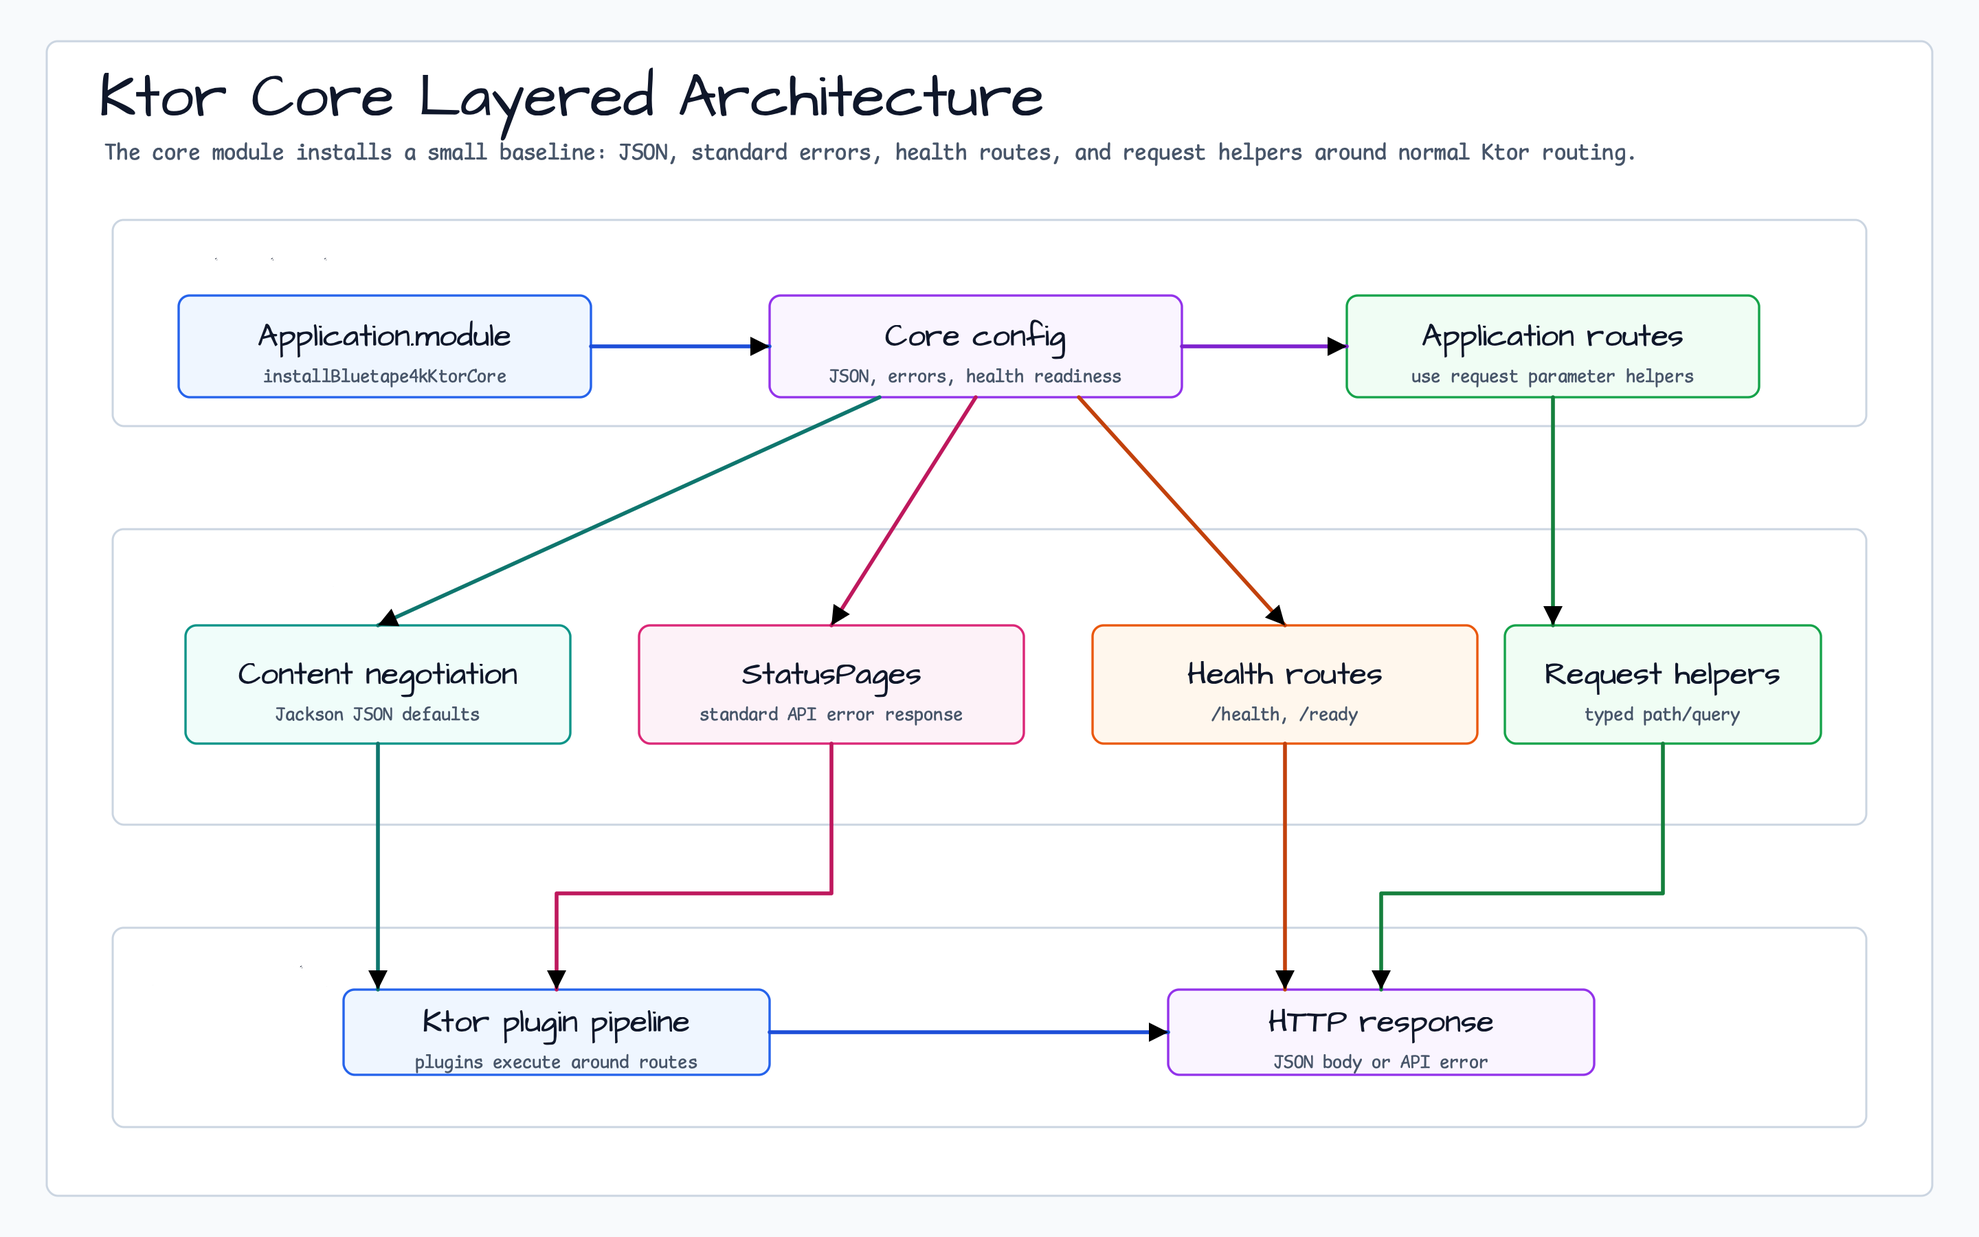
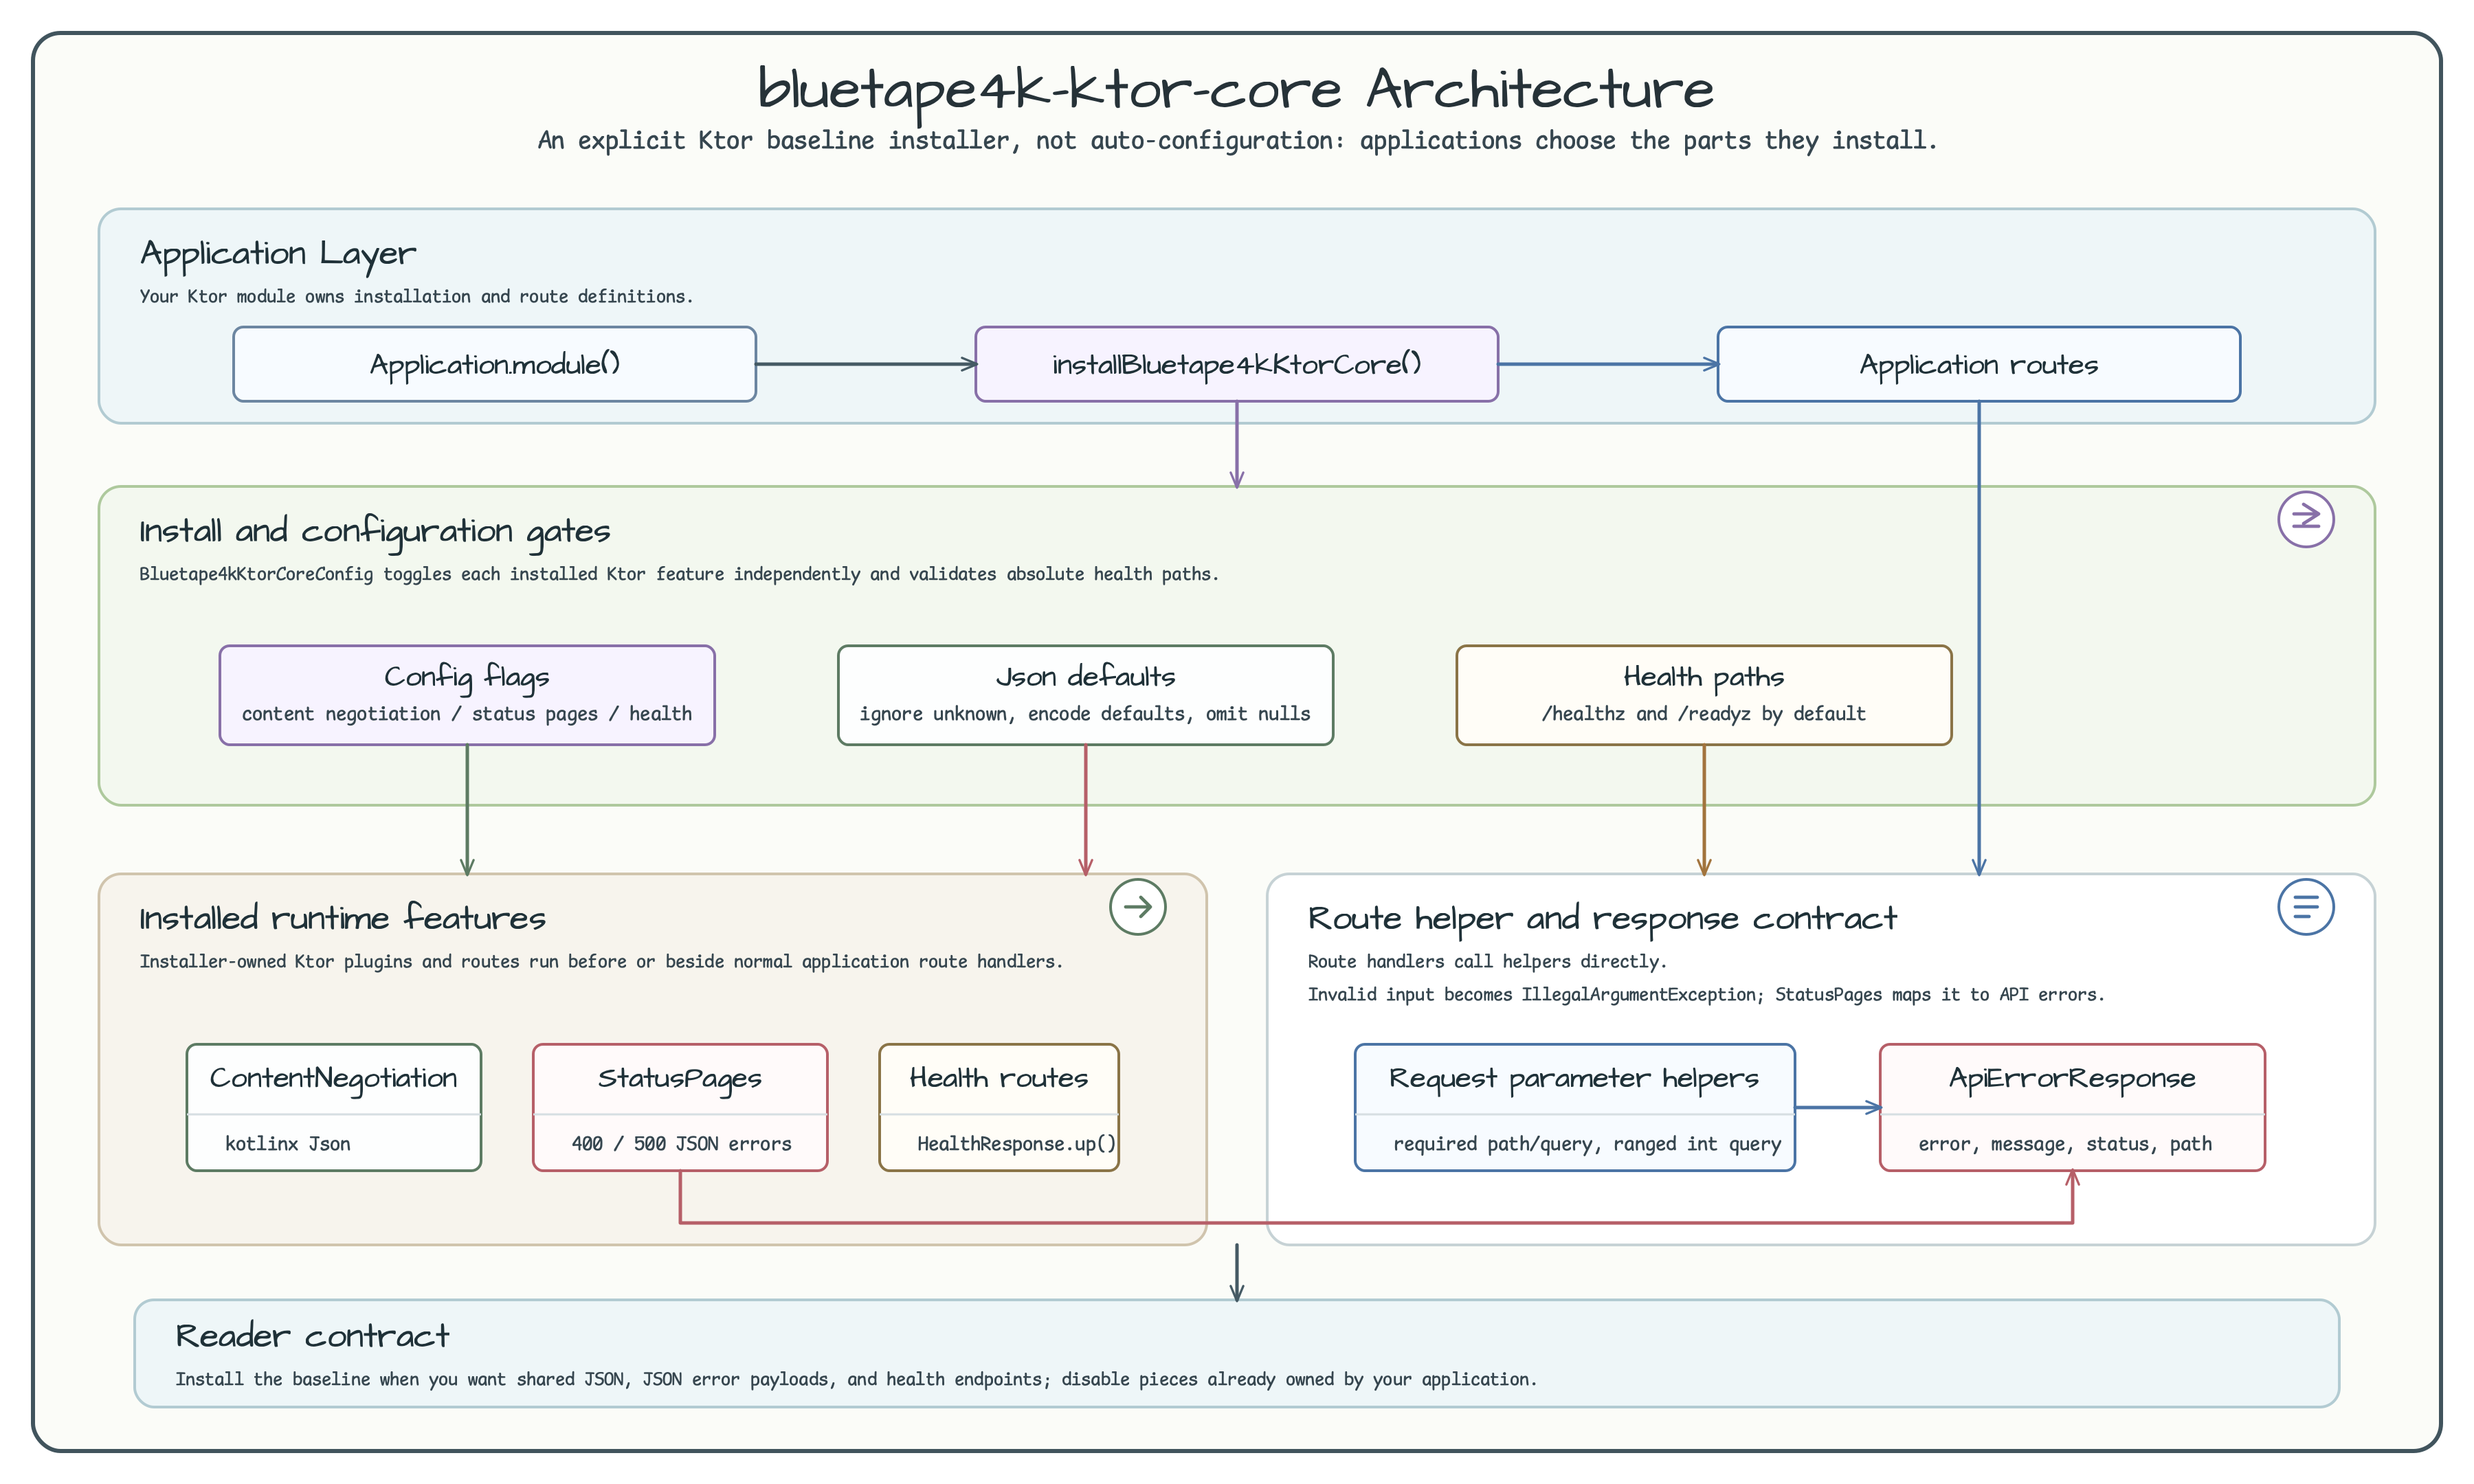
docs: clarify ktor core architecture
Rebuild the ktor/core README visual and prose around the current explicit installer contract so readers can distinguish application-owned routes, configurable baseline plugins, health routes, and error payload handling.

Constraint: Documentation-only work uses README/source review plus SVG/PNG validation, not Gradle build verification.

Rejected: Keeping the previous generated architecture asset | it contained work-log metadata, stroke-scaled markers, and outdated route labels.

Confidence: high

Scope-risk: narrow

Directive: Keep future ktor/core docs centered on explicit installBluetape4kKtorCore ownership and Bluetape4kKtorCoreConfig gates.

Tested: XML parsed for ktor-core-architecture-01.svg; forbidden pattern scan returned 0 matches; CairoSVG rendered PNG; git diff --check passed; PNG visually inspected.

Not-tested: Gradle build or module tests, because this commit changes README prose and rendered diagram assets only.

diff --git a/ktor/core/README.ko.md b/ktor/core/README.ko.md
@@ -2,19 +2,19 @@
 
 [English](./README.md) | [한국어](./README.ko.md)
 
-bluetape4k 생태계를 위한 기본 Ktor 서버 helper 모듈입니다.
+bluetape4k 애플리케이션에서 공통으로 쓰는 작은 Ktor 서버 기본값 모듈입니다.
 
-## Architecture Diagram
+## 아키텍처 다이어그램
 
 ![Ktor Core Architecture](../../docs/images/readme-diagrams/ktor-core-architecture-01.png)
 
 ## 기능
 
-- `Bluetape4kKtorJson.defaultJson()` 공통 kotlinx serialization 기본값.
-- `installBluetape4kKtorCore()` 명시적 Ktor 서버 baseline installer.
-- `ApiErrorResponse` 및 `StatusPagesConfig.bluetape4kErrorResponses()` JSON 오류 응답.
-- `HealthResponse`를 반환하는 `/healthz`, `/readyz` helper.
-- 반복되는 Ktor route 검증을 줄이는 query/path parameter helper.
+- `Bluetape4kKtorJson.defaultJson()`는 공통 kotlinx serialization 기본값을 제공합니다.
+- `installBluetape4kKtorCore()`는 Ktor 기본 플러그인을 명시적으로 설치합니다.
+- `ApiErrorResponse`와 `StatusPagesConfig.bluetape4kErrorResponses()`는 일관된 JSON 오류 응답을 만듭니다.
+- `/healthz`, `/readyz` 라우트는 기본적으로 `HealthResponse.up()`을 반환합니다.
+- Query/path 파라미터 도우미로 반복되는 Ktor 라우트 검증 코드를 줄일 수 있습니다.
 
 ## 의존성
 
@@ -51,5 +51,5 @@ fun Application.module() {
 ```
 
 기본 installer는 content negotiation, JSON 오류 처리, health/readiness route를
-추가합니다. 애플리케이션이 해당 Ktor plugin을 직접 소유해야 한다면
-`Bluetape4kKtorCoreConfig`로 각 기능을 끌 수 있습니다.
+추가합니다. 애플리케이션이 특정 Ktor plugin을 직접 관리해야 한다면
+`Bluetape4kKtorCoreConfig`로 해당 기능만 끄면 됩니다.

diff --git a/ktor/core/README.md b/ktor/core/README.md
@@ -2,7 +2,7 @@
 
 [English](./README.md) | [한국어](./README.ko.md)
 
-Baseline Ktor server helpers for the bluetape4k ecosystem.
+Small Ktor server defaults for bluetape4k applications.
 
 ## Architecture Diagram
 
@@ -10,11 +10,11 @@ Baseline Ktor server helpers for the bluetape4k ecosystem.
 
 ## Features
 
-- `Bluetape4kKtorJson.defaultJson()` for shared kotlinx serialization defaults.
-- `installBluetape4kKtorCore()` for explicit Ktor server baseline installation.
-- `ApiErrorResponse` and `StatusPagesConfig.bluetape4kErrorResponses()` for JSON error payloads.
-- `/healthz` and `/readyz` helpers returning `HealthResponse`.
-- Query and path parameter helpers for repeated Ktor route validation.
+- `Bluetape4kKtorJson.defaultJson()` provides shared kotlinx serialization defaults.
+- `installBluetape4kKtorCore()` installs the baseline Ktor plugins explicitly.
+- `ApiErrorResponse` and `StatusPagesConfig.bluetape4kErrorResponses()` produce consistent JSON error payloads.
+- `/healthz` and `/readyz` routes return `HealthResponse.up()` by default.
+- Query and path parameter helpers keep repeated Ktor route validation compact.
 
 ## Dependency
 
@@ -51,5 +51,5 @@ fun Application.module() {
 ```
 
 The default installer adds content negotiation, JSON error handling, and
-health/readiness routes. Disable individual parts through
-`Bluetape4kKtorCoreConfig` when an application already owns that Ktor plugin.
+health/readiness routes. When an application already owns one of those Ktor
+plugins, disable that part with `Bluetape4kKtorCoreConfig`.
